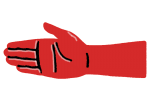
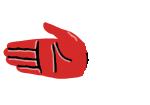
グー配置

Changed region(s): [[0.56, 0.3714, 0.9867, 0.7429]]

diff --git a/nupa2.java b/nupa2.java
@@ -1,0 +1,29 @@
+import greenfoot.*;  // (World, Actor, GreenfootImage, Greenfoot and MouseInfo)
+
+/**
+ * Write a description of class nupa2 here.
+ * 
+ * @author (your name) 
+ * @version (a version number or a date)
+ */
+public class nupa2 extends Actor
+{
+    private GreenfootImage img_bkup = null;
+    private int width=110;
+    private int height= 110;
+    public nupa2(){
+        img_bkup = new GreenfootImage( getImage() );
+        getImage().scale( width,height );
+    }
+    /**
+     * Act - do whatever the hako wants to do. This method is called whenever
+     * the 'Act' or 'Run' button gets pressed in the environment.
+     */
+    public void act() 
+    {
+        GreenfootImage img = new GreenfootImage(img_bkup);
+        img.scale( width,height );
+        setImage(img); 
+        // Add your action code here.
+    }    
+}

diff --git a/MyWorld.java b/MyWorld.java
@@ -17,9 +17,11 @@ public class MyWorld extends World
     {   
         // Create a new world with 600x400 cells with a cell size of 1x1 pixels.
         super(600, 400, 1); 
+        //下に行くほど前面配置
         addObject( new atari(), 0, 300 );//箱の中の当たり判定
         addObject( new kon(), 300, 332 );//コンベア
         addObject( new kasi1(), 600, 300 );
         addObject( new hako(), 0, 300 );
+        addObject( new nupa2(), 300, 150 );//グー
     }
 }
